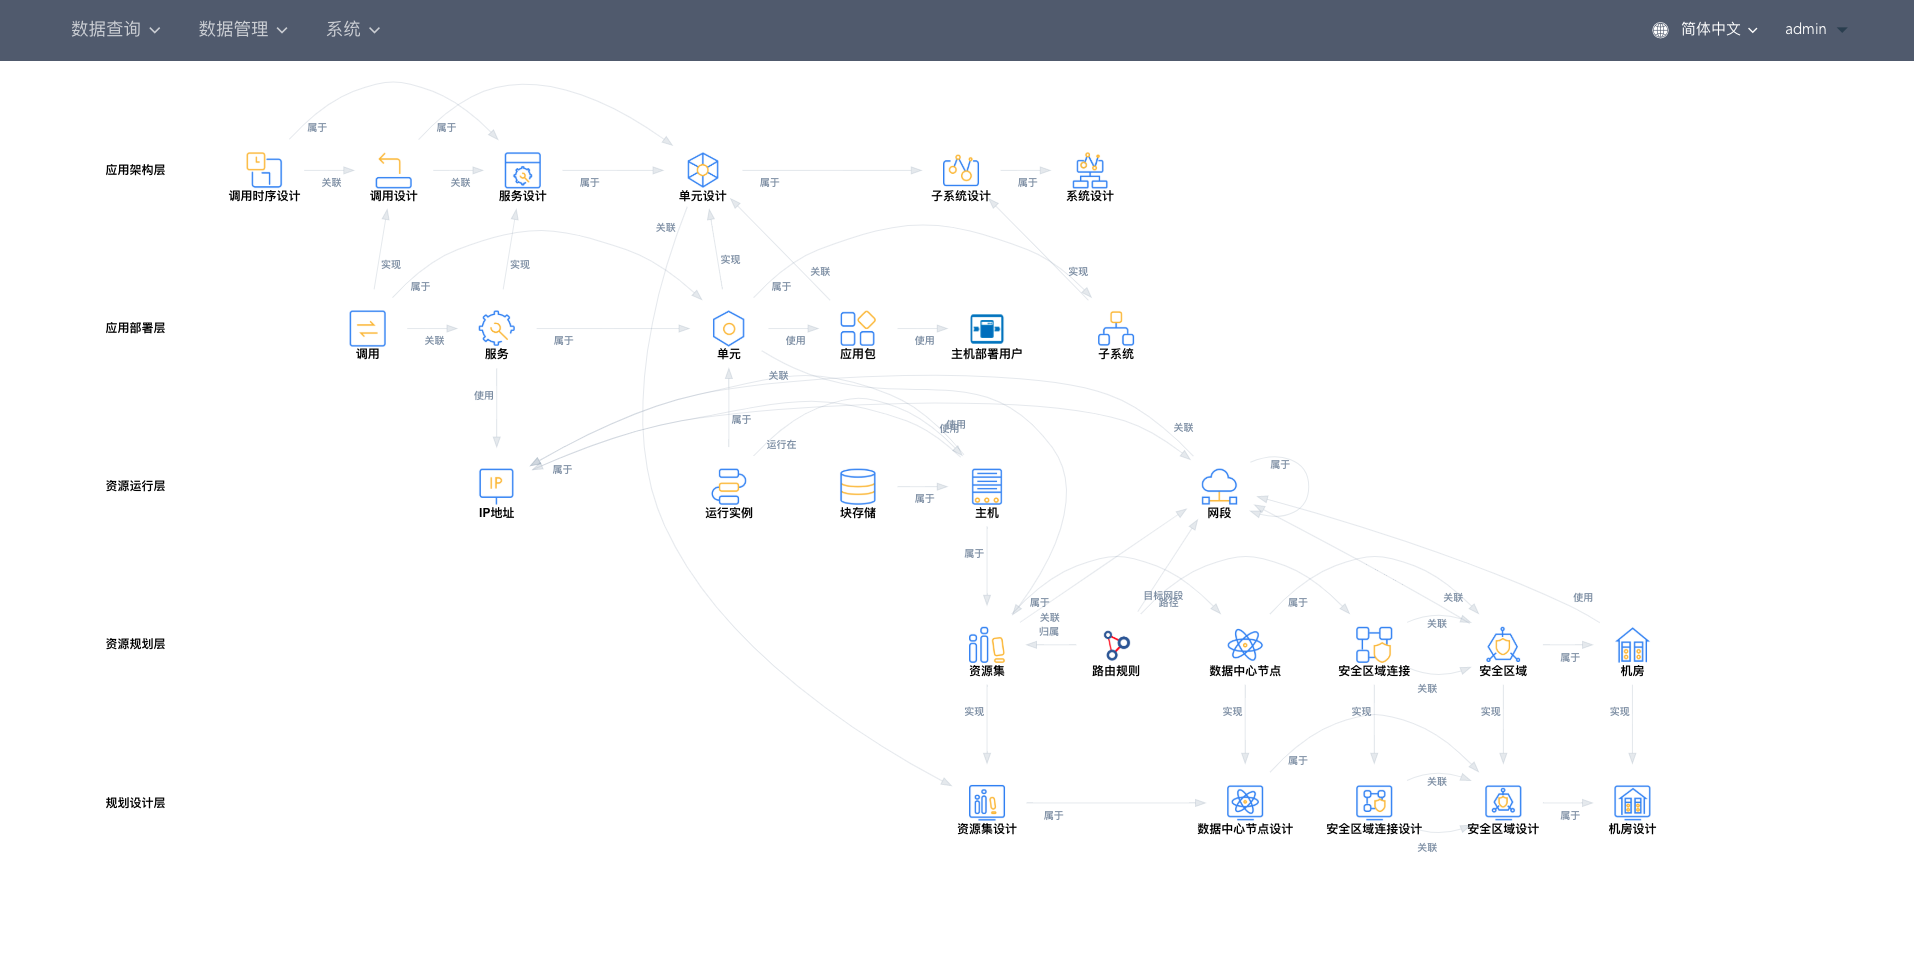
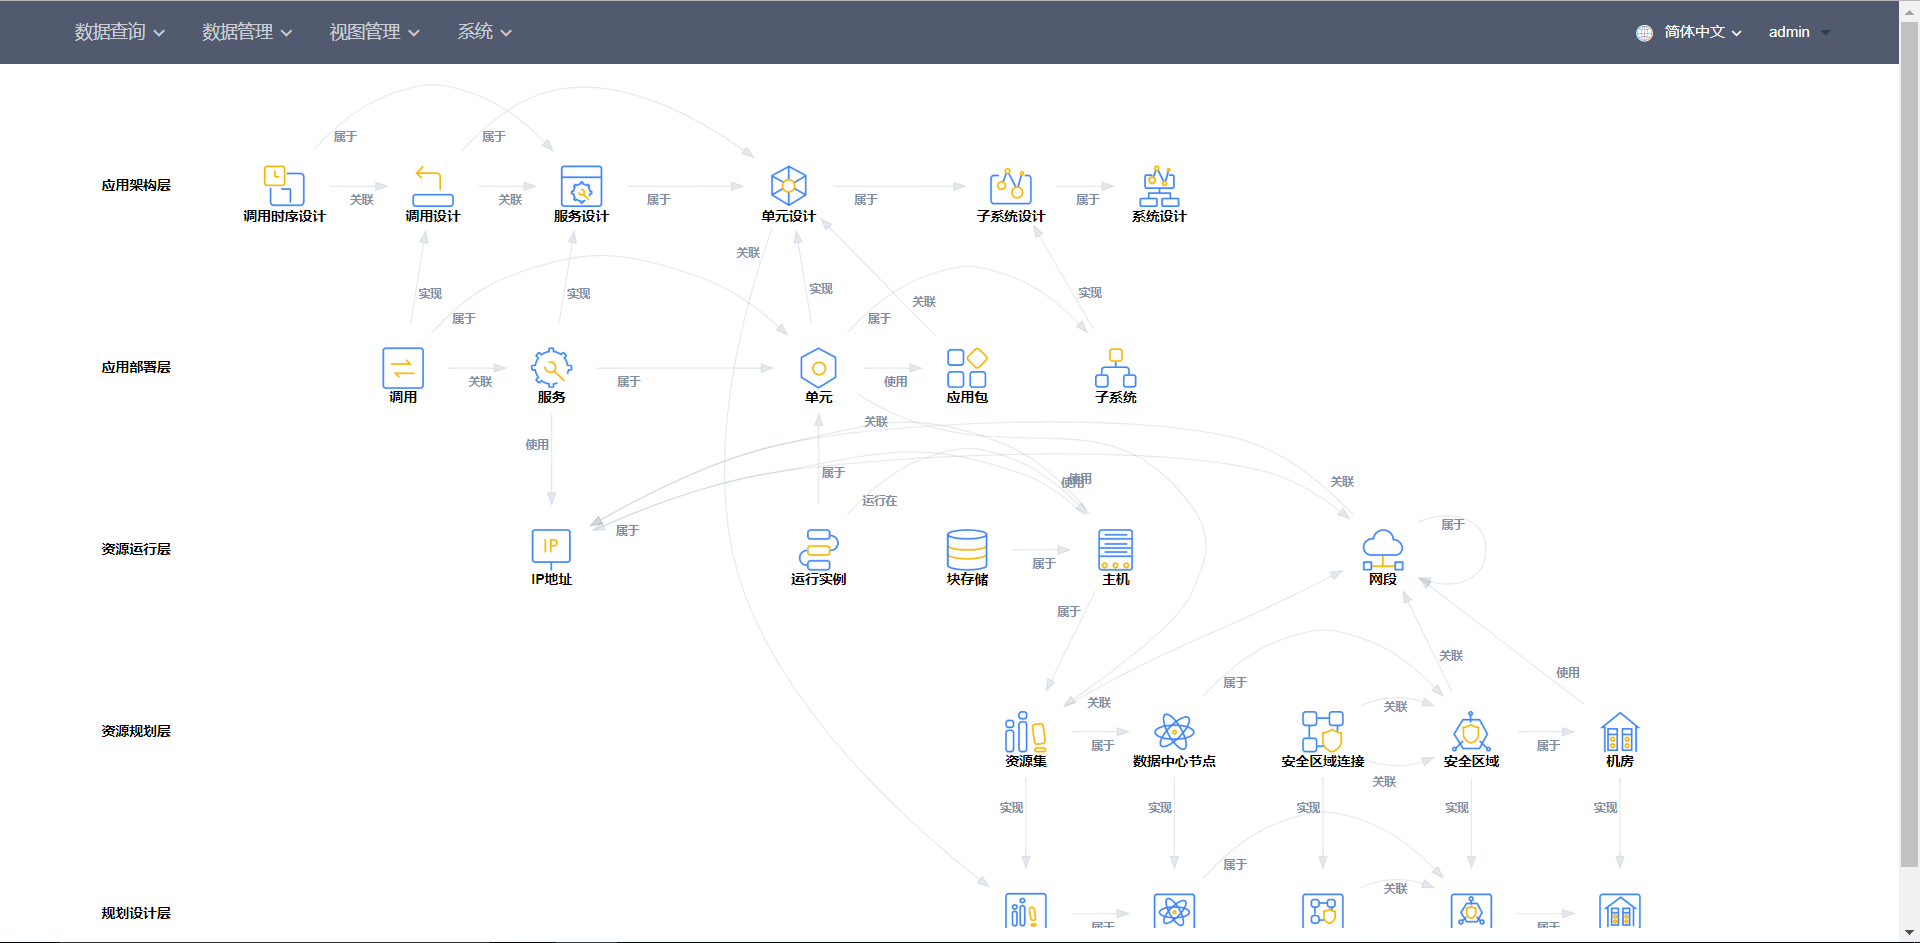
#338 Fix the typo of enum payment term and add docs for view management

diff --git a/README_EN.md b/README_EN.md
@@ -25,12 +25,9 @@ Distributed architecture has been widely adopted in order to support large amoun
 CMDB, as the core of IT operation tools, working as the single source of truth for information in the entire IT system, is the foundation and prerequisite for IT operation to become automated and intelligent. With a reliable CMDB, IT information ranging from physical layer (including data centers, chassises, positions, servers, network information, etc.), logical layer (IP addresses, architecture information) to application layer (information of business application systems) can all be recorded and managed properly.
 
 ## System Architecture
-WeCMDB 1.1 is now released, its architecture is as follows: 
+Architecture is as follows: 
 
 ![WeCMDB System Architecture](cmdb-wiki/images/wecmdb_arch_en.png) 
-
-- WeCMDB 1.0 relies on a CAS server for authentication, while a local user based autentication mode is added in WeCMDB 1.1.
-- WeCMDB can provide data exchange service with APIs.
 
 ## Summary
 WeCMDB is a centralized store for configuration data, which is used to manage the information of components and the relations between those components in all layers of IT systems. It is closely related to the automation tools in IT operation as well as the processes they are caryying, so that these tools can function smoothly and the value of configuration data is well utilized. In the contrary, those tools and processcess are also playing an important role in keeping the configuration data accurate.
@@ -66,6 +63,9 @@ Here are the characteristics of WeCMDB:
 
   Support configuration data management, basic configuration query, integrated query management and interface configuration for integrated queries.
 
+- View Management
+  Support configuration management from different aspects,IDC planning design， IDC resource planning, application architecture design, application deployment design, which include graphic display all the configuration items of the selected aspects and you can maintain the items there easily.
+
 - System Management
 
   Support authorization management (including users, roles, data permision and access to menu items).
@@ -82,12 +82,12 @@ Please refer to the [WeCMDB Model Guide](cmdb-wiki/docs/manual/wecmdb_model_guid
 
 Please refer to the [WeCMDB User Guide](cmdb-wiki/docs/manual/wecmdb_user_guide.md) for usage and operations.
 
-## Developer Documentation
+## Developer Guide
 #### Deploy WeCMDB in Standalone Mode
-[WeCMDB Quick Start in Standalone Mode](cmdb-wiki/docs/developer/wecmdb_local_standalone_guide.md)
+Please refer to the [WeCMDB Quick Start in Standalone Mode](cmdb-wiki/docs/developer/wecmdb_local_standalone_guide.md) for setting up local environment quickly.
 
 #### Deploy WeCMDB in Normal Mode
-WeCMDB is developed with Java and ReactJS, uses MySQL for data persistence and relies on Tomcat as the web application container.
+WeCMDB is developed with Java and Vue, uses MySQL for data persistence and relies on Tomcat as the web application container.
 
 Please refer to the [WeCMDB Developer Guide](cmdb-wiki/docs/developer/wecmdb_developer_guide.md) for setting up development environment.
 
